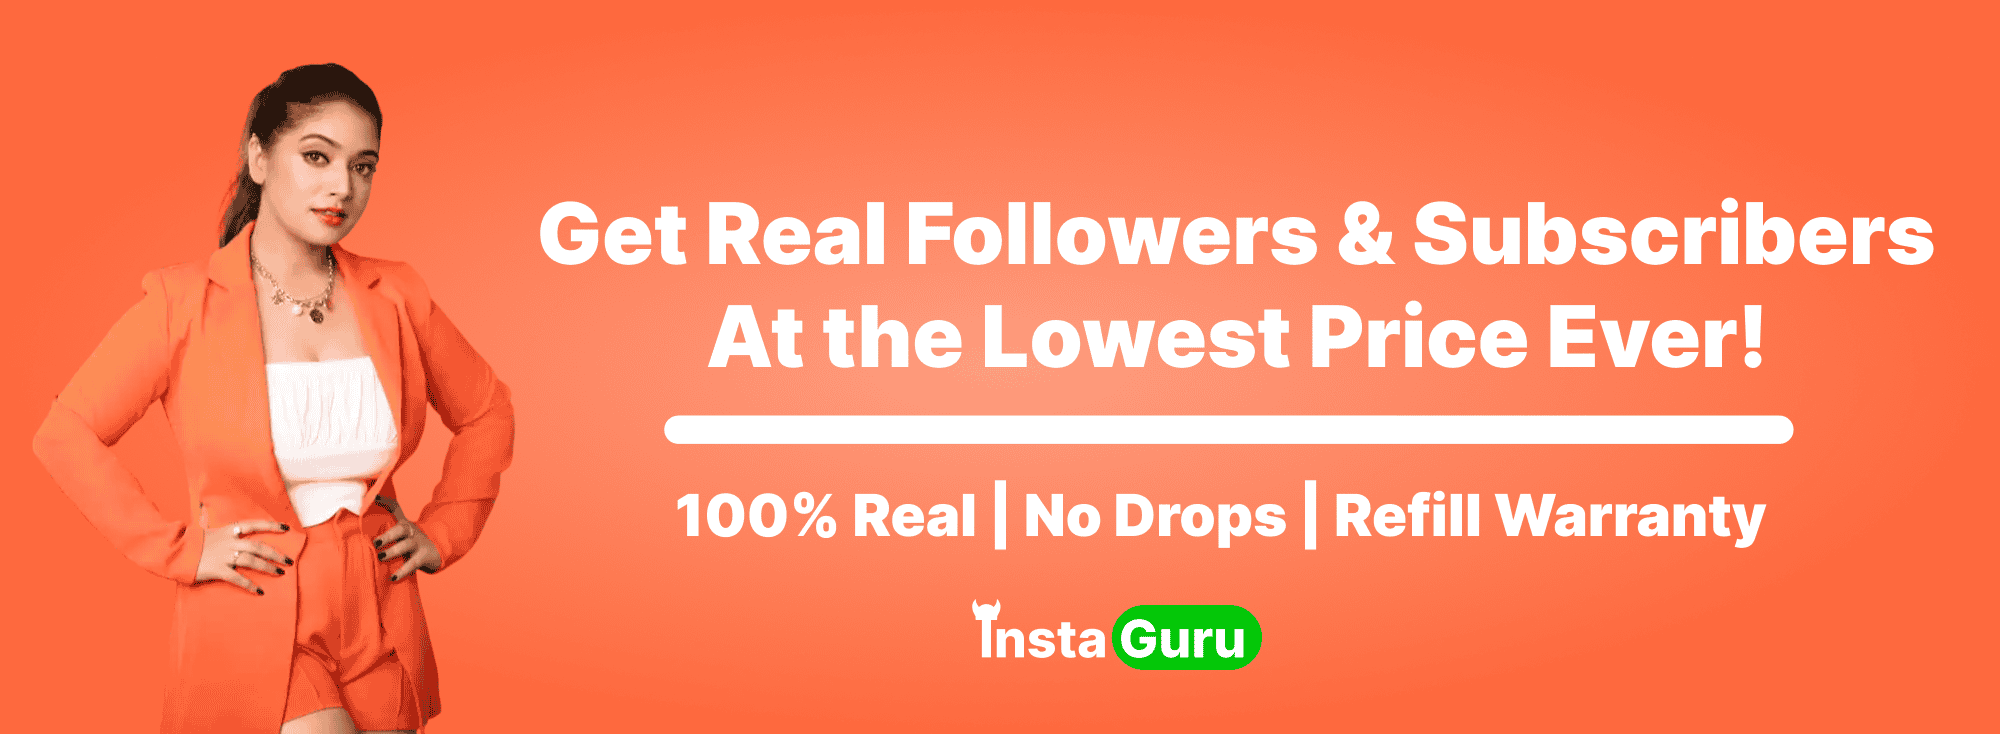
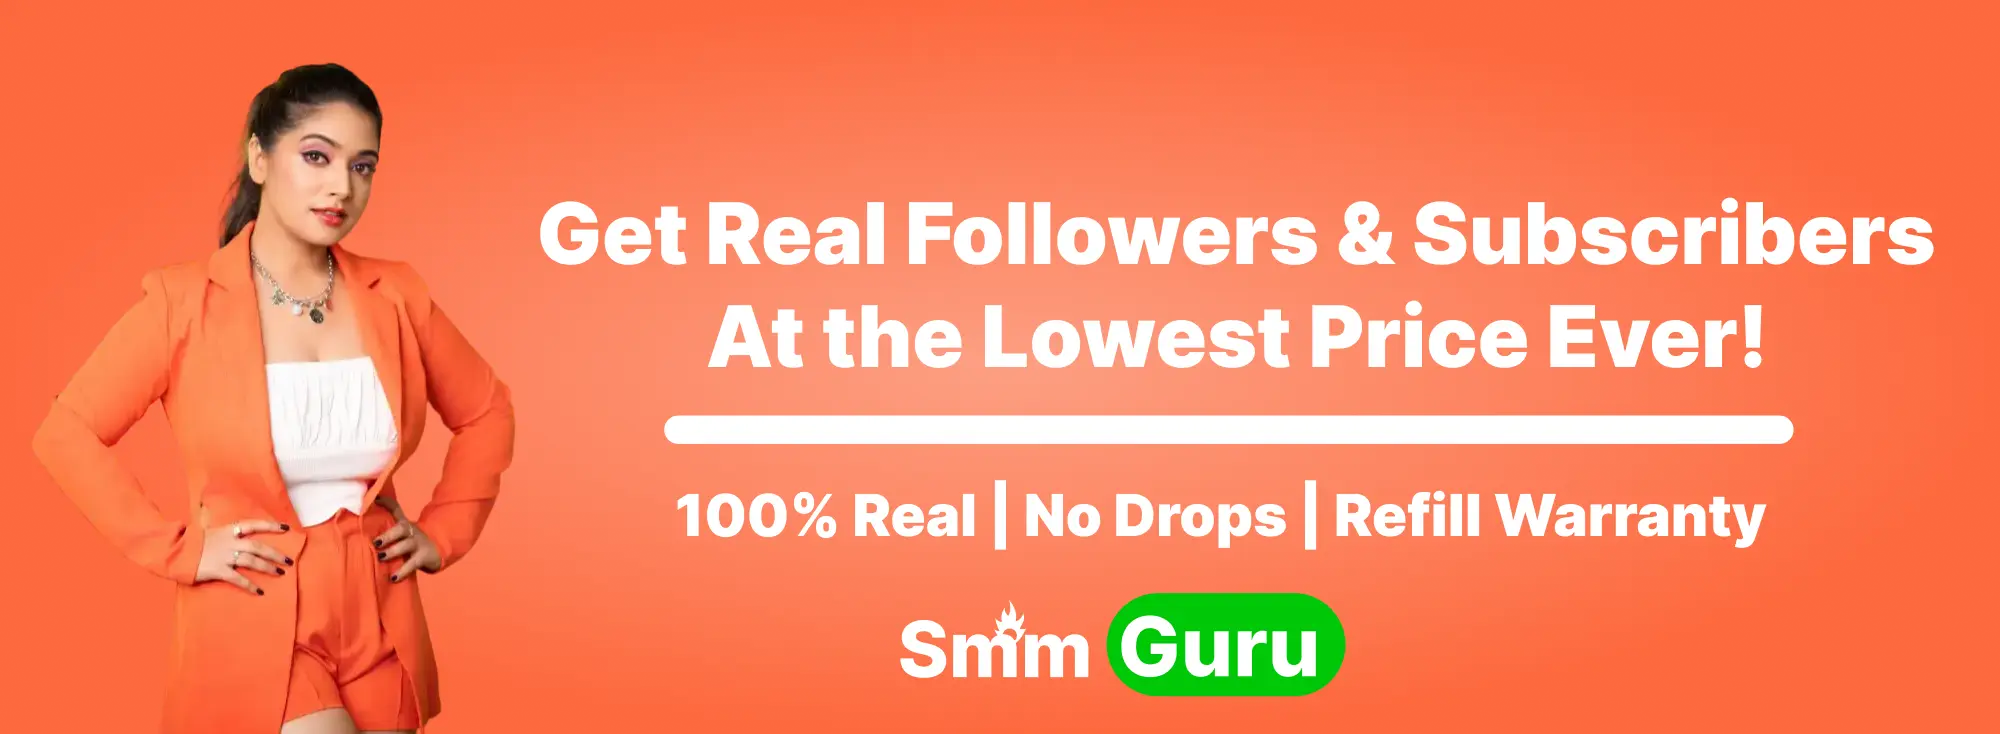
updaetd

diff --git a/index.html b/index.html
@@ -7,29 +7,29 @@
   <meta name="viewport" content="width=device-width, initial-scale=1.0" />
 
   <!-- SEO Meta Tags -->
-  <title>InstaGuru - Social Media Marketing Services</title>
+  <title>SmmGuru - Social Media Marketing Services</title>
   <meta name="description"
     content="Get real followers, subscribers & OTT subscriptions at the lowest prices. Trusted by thousands for Instagram, YouTube, Facebook and more." />
   <meta name="keywords"
     content="social media marketing, instagram followers, youtube subscribers, facebook likes, social media services" />
 
   <!-- Open Graph Tags for Social Media Preview -->
-  <meta property="og:title" content="InstaGuru - Social Media Marketing Services" />
+  <meta property="og:title" content="SmmGuru - Social Media Marketing Services" />
   <meta property="og:description" content="Get real followers, subscribers & OTT subscriptions at the lowest prices. Trusted by thousands for Instagram, YouTube, Facebook and more." />
   <meta property="og:type" content="website" />
-  <meta property="og:url" content="https://instaguru.shop" />
-  <meta property="og:image" content="https://instaguru.shop/preview.webp" />
+  <meta property="og:url" content="https://smmguru.shop" />
+  <meta property="og:image" content="https://smmguru.shop/preview.webp" />
   <meta property="og:image:width" content="1200" />
   <meta property="og:image:height" content="630" />
-  <meta property="og:image:alt" content="InstaGuru - Social Media Marketing Services" />
-  <meta property="og:site_name" content="InstaGuru" />
+  <meta property="og:image:alt" content="smmguru - Social Media Marketing Services" />
+  <meta property="og:site_name" content="smmguru" />
 
   <!-- Twitter Card Tags -->
   <meta name="twitter:card" content="summary_large_image" />
-  <meta name="twitter:title" content="InstaGuru - Social Media Marketing Services" />
+  <meta name="twitter:title" content="smmguru - Social Media Marketing Services" />
   <meta name="twitter:description" content="Get real followers, subscribers & OTT subscriptions at the lowest prices. Trusted by thousands for Instagram, YouTube, Facebook and more." />
-  <meta name="twitter:image" content="https://instaguru.shop/preview.webp" />
-  <meta name="twitter:image:alt" content="InstaGuru - Social Media Marketing Services" />
+  <meta name="twitter:image" content="https://smmguru.shop/preview.webp" />
+  <meta name="twitter:image:alt" content="smmguru - Social Media Marketing Services" />
 
   <!-- WhatsApp specific (uses Open Graph) -->
   <meta property="og:locale" content="en_US" />

diff --git a/src/utils/seoUtils.js b/src/utils/seoUtils.js
@@ -108,12 +108,12 @@ const seoData = {
   about: {
     title: `About ${siteConfig.siteName} - Leading SMM Panel Since 2+ Years`,
     description: `Learn about ${siteConfig.siteName}, the trusted SMM panel serving thousands of customers for 2+ years. Real followers, subscribers & premium OTT services with 24/7 support.`,
-    keywords: `about instaguru, smm panel, social media marketing company, trusted smm services`
+    keywords: `about smmguru, smm panel, social media marketing company, trusted smm services`
   },
   contact: {
     title: `Contact ${siteConfig.siteName} - 24/7 Customer Support`,
     description: `Get in touch with ${siteConfig.siteName} support team. Available 24/7 via email and WhatsApp for all your social media marketing needs and queries.`,
-    keywords: `contact instaguru, customer support, smm panel support, social media marketing help`
+    keywords: `contact smmguru, customer support, smm panel support, social media marketing help`
   },
   refer: {
     title: `Refer & Earn ₹${siteConfig.referralBonus} - ${siteConfig.siteName}`,

diff --git a/src/config/siteConfig.js b/src/config/siteConfig.js
@@ -1,15 +1,15 @@
 // Site Configuration - Change everything from here
 const siteConfig = {
   // Website Information
-  siteName: "InstaGuru",
+  siteName: "SmmGuru",
   siteDescription:
     "Get real followers, subscribers & OTT subscriptions at the lowest prices. Trusted by thousands for Instagram, YouTube, Facebook and more.",
   siteKeywords:
     "social media marketing, instagram followers, youtube subscribers, facebook likes, social media services",
-  siteUrl: "https://instaguru.shop",
+  siteUrl: "https://smmguru.shop",
 
   // Contact Information
-  supportEmail: "help@instaguru.shop",
+  supportEmail: "help@smmguru.shop",
   supportPhone: "+91 72259 79671",
   whatsappNumber: "917225979671",
 

diff --git a/src/pages/Home.jsx b/src/pages/Home.jsx
@@ -30,7 +30,7 @@ const Home = () => {
       <div className="mt-20"></div>
       <WelcomePopup />
       <AutoSlider />
-      <a href="https://wa.me/917225979671?text=Hello%20InstaGuru" target="_blank">
+      <a href="https://wa.me/917225979671?text=Hello%20smmguru" target="_blank">
         <div className="flex justify-center gap-4 items-center mt-6 m-4 bg-green-200 text-wh p-3 rounded-lg">
           <svg
             xmlns="http://www.w3.org/2000/svg"

diff --git a/vite.config.js b/vite.config.js
@@ -10,8 +10,8 @@ export default defineConfig({
       registerType: 'autoUpdate',
       includeAssets: ['favicon.ico', 'robots.txt', 'apple-touch-icon.png'],
       manifest: {
-        name: 'InstaGuru',
-        short_name: 'InstaGuru',
+        name: 'smmguru',
+        short_name: 'smmguru',
         theme_color: '#ffffff',
         icons: [
           {
